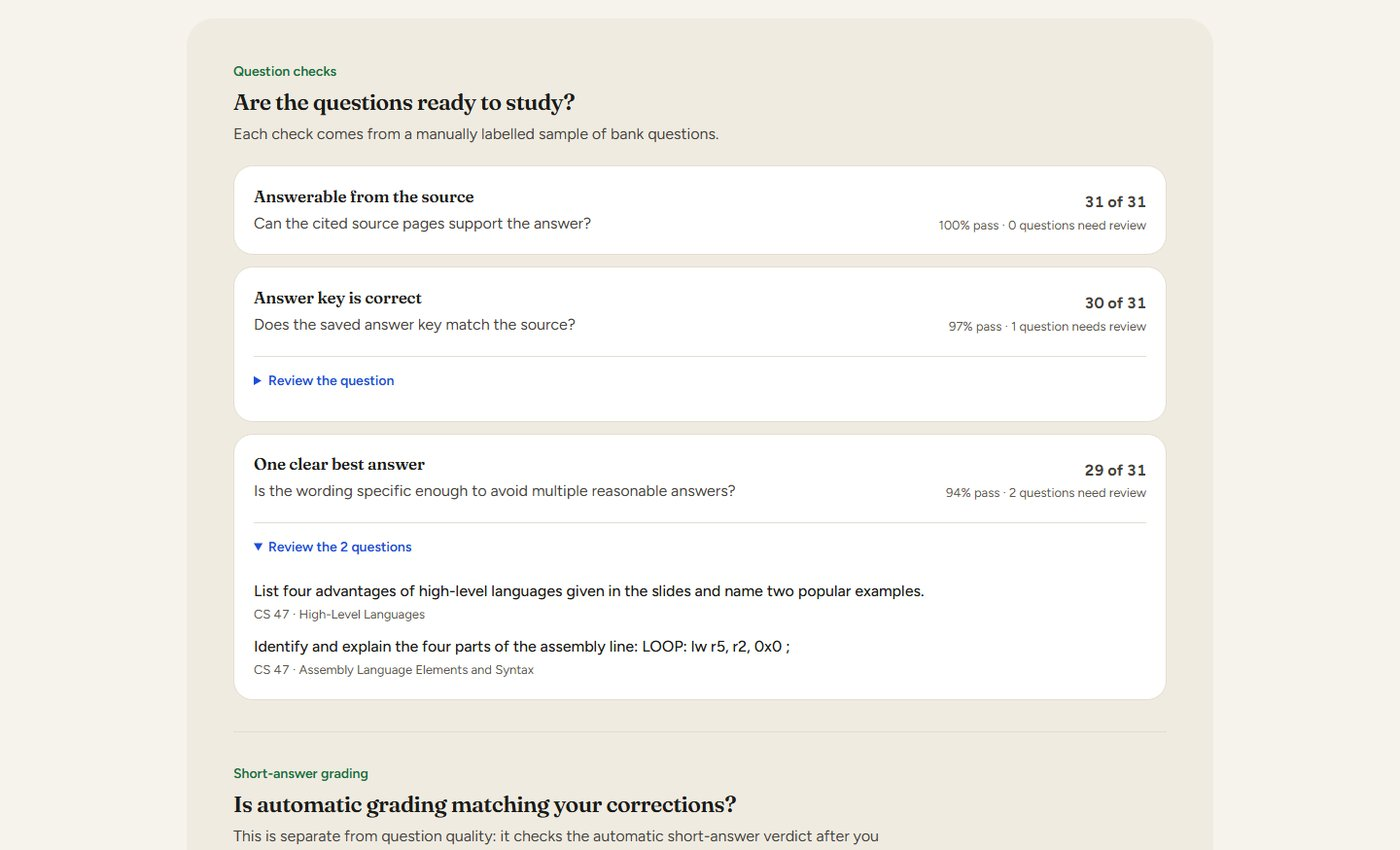
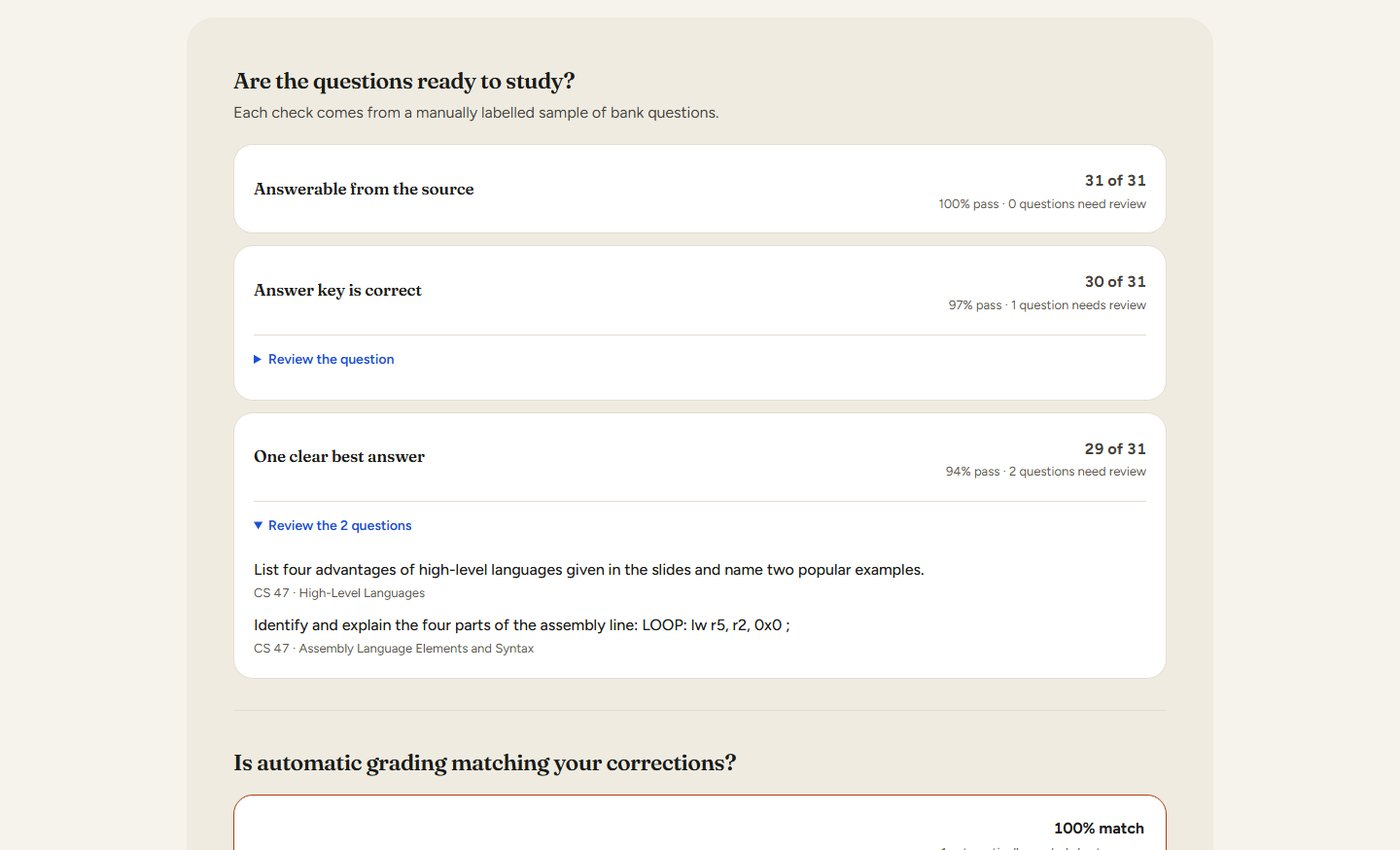
Trim subtext that restated headings or explained the obvious
Dashboard: drop the line under Work on these next and fold the path's key and
its upload-order note into a How this is counted disclosure. Home, Quiz, Bank
and Evaluation lose helper sentences, eyebrows and lines that repeat their
headings. Screenshots retaken.

Changed region(s): [[0.1536, 0.0612, 0.8293, 0.8259], [0.1536, 0.8871, 0.8293, 1.0]]

diff --git a/frontend/src/pages/EvalPage.tsx b/frontend/src/pages/EvalPage.tsx
@@ -20,7 +20,6 @@ export default function EvalPage() {
     <div className="page">
       <header className="page-head">
         <div>
-          <p className="eyebrow">Evaluation</p>
           <h1>Question quality</h1>
           <p className="lede">Use this page to check the question bank and automatic grading. It does not measure your course grade.</p>
         </div>
@@ -31,7 +30,6 @@ export default function EvalPage() {
         <div className="eval-panel">
           <section className="eval-section" aria-labelledby="question-checks-title">
             <div className="eval-section-head">
-              <p className="eyebrow">Question checks</p>
               <h2 id="question-checks-title">Are the questions ready to study?</h2>
               <p>Each check comes from a manually labelled sample of bank questions.</p>
             </div>
@@ -39,13 +37,13 @@ export default function EvalPage() {
               <p className="empty">No question-quality labels yet. Label a few bank questions to start checking them here.</p>
             ) : (
               <ul className="quality-list">
-                <QualityCheck title="Answerable from the source" detail="Can the cited source pages support the answer?"
+                <QualityCheck title="Answerable from the source"
                   rate={report.pctAnswerable} total={report.labeled} pct={pct} passed={passed}
                   failing={report.needsReview.filter(q => !q.answerable)} />
-                <QualityCheck title="Answer key is correct" detail="Does the saved answer key match the source?"
+                <QualityCheck title="Answer key is correct"
                   rate={report.pctCorrectAnswer} total={report.labeled} pct={pct} passed={passed}
                   failing={report.needsReview.filter(q => !q.correctAnswer)} />
-                <QualityCheck title="One clear best answer" detail="Is the wording specific enough to avoid multiple reasonable answers?"
+                <QualityCheck title="One clear best answer"
                   rate={report.pctUnambiguous} total={report.labeled} pct={pct} passed={passed}
                   failing={report.needsReview.filter(q => !q.unambiguous)} />
               </ul>
@@ -53,9 +51,7 @@ export default function EvalPage() {
           </section>
           <section className="eval-section" aria-labelledby="grader-title">
             <div className="eval-section-head">
-              <p className="eyebrow">Short-answer grading</p>
               <h2 id="grader-title">Is automatic grading matching your corrections?</h2>
-              <p>This is separate from question quality: it checks the automatic short-answer verdict after you have a chance to reverse it.</p>
             </div>
             {report.gradedShortAnswers === 0 ? (
               <p className="empty">No automatically graded short answers yet. Complete short-answer prompts to start checking the grader.</p>
@@ -74,7 +70,6 @@ export default function EvalPage() {
 
 interface QualityCheckProps {
   title: string
-  detail: string
   rate: number
   total: number
   pct: (rate: number) => string
@@ -83,14 +78,13 @@ interface QualityCheckProps {
   failing: ReviewItem[]
 }
 
-function QualityCheck({ title, detail, rate, total, pct, passed, failing }: QualityCheckProps) {
+function QualityCheck({ title, rate, total, pct, passed, failing }: QualityCheckProps) {
   const ready = passed(rate, total)
   const needsReview = total - ready
   return (
     <li className="quality-check">
       <div>
         <h3>{title}</h3>
-        <p>{detail}</p>
       </div>
       <p className="quality-score"><b>{ready} of {total}</b><span>{pct(rate)} pass · {plural(needsReview, 'question')} {needsReview === 1 ? 'needs' : 'need'} review</span></p>
       {failing.length > 0 && (

diff --git a/frontend/src/pages/DashboardPage.tsx b/frontend/src/pages/DashboardPage.tsx
@@ -103,7 +103,6 @@ function FocusCard({ toWorkOn, graded }: { toWorkOn: ConceptStats[]; graded: num
           </p>
         ) : (
           <>
-            <p className="focus-sub">Your last answer on each was wrong. Weakest first.</p>
             <ol className="focus-list">
               {toWorkOn.slice(0, FOCUS).map((c, i) => <FocusItem key={c.conceptId} concept={c} n={i + 1} />)}
             </ol>
@@ -143,16 +142,21 @@ function LecturePath({ courseName, concepts }: { courseName: string; concepts: C
       <div className="path-side">
         <div className="path-stick">
           <h2 id="path-title">Your path through {plural(lectures.length, 'lecture')}</h2>
-          <p className="path-intro">{started} of {plural(total, 'topic')} started. Lectures are in the order you uploaded them.</p>
+          <p className="path-intro">{started} of {plural(total, 'topic')} started.</p>
           <span className="path-meter" aria-hidden="true">
             <span className="fill-right" style={{ width: `${(right / total) * 100}%` }} />
             <span className="fill-weak" style={{ width: `${(weak / total) * 100}%` }} />
           </span>
-          <ul className="path-legend">
-            <li className="k-right"><Icon name="circle-check" />Right last time</li>
-            <li className="k-weak"><Icon name="refresh-cw" />To work on: last answer was wrong</li>
-            <li className="k-new"><Icon name="circle-dashed" />Not started</li>
-          </ul>
+          {/* every lecture labels its own counts, so the key and the ordering wait behind a disclosure */}
+          <details className="path-how">
+            <summary>How this is counted</summary>
+            <ul className="path-legend">
+              <li className="k-right"><Icon name="circle-check" />Right last time: the last graded answer was right</li>
+              <li className="k-weak"><Icon name="refresh-cw" />To work on: the last graded answer was wrong</li>
+              <li className="k-new"><Icon name="circle-dashed" />Not started: no graded answer yet</li>
+            </ul>
+            <p>Lectures are in the order you uploaded them.</p>
+          </details>
         </div>
       </div>
       <ol className="path">

diff --git a/frontend/src/pages/QuizPage.tsx b/frontend/src/pages/QuizPage.tsx
@@ -260,7 +260,6 @@ export default function QuizPage() {
                     </div>
                   )}
                   <Why question={onScreen} review={reviews[onScreen.id]} />
-                  <p className="verdict-note">Check yours against the model answer, then mark it.</p>
                   <div className="actions">
                     <button className="btn btn--secondary" onClick={() => mark(onScreen, true)}>I got it right</button>
                     <button className="btn btn--secondary" onClick={() => mark(onScreen, false)}>I got it wrong</button>
@@ -318,10 +317,7 @@ function Setup({ questions, landing, onStart }: {
         </>
       ) : (
         <>
-          <p className="lede">
-            Every question from every topic, shuffled into one quiz. After each answer you see why it is
-            right or wrong, straight from the slides. Nothing here changes your study schedule.
-          </p>
+          <p className="lede">Nothing here changes your study schedule.</p>
           <fieldset className="quiz-fieldset">
             <legend className="field-label">Lectures</legend>
             {/* the exam form's checkbox rows, so picking lectures looks the same wherever it happens */}

diff --git a/frontend/src/styles/dashboard.css b/frontend/src/styles/dashboard.css
@@ -262,10 +262,8 @@
   font-size: 22px;
 }
 
-.focus-sub {
-  margin: 4px 0 12px;
-  font-size: 14px;
-  color: var(--ink-dim);
+.focus-title + .focus-list {
+  margin-top: 12px;
 }
 
 .focus-card > .empty {
@@ -387,10 +385,30 @@
   background: var(--mastery-track);
 }
 
+/* the key to the bars and the path's order, folded away: each lecture labels its own counts */
+.path-how {
+  margin-top: 16px;
+  font-size: 14px;
+}
+
+.path-how summary {
+  display: inline-flex;
+  align-items: center;
+  min-height: 32px;
+  color: var(--link);
+  font-weight: 600;
+  cursor: pointer;
+}
+
+.path-how p {
+  margin-top: 10px;
+  color: var(--ink-dim);
+}
+
 .path-legend {
   display: grid;
   gap: 8px;
-  margin: 18px 0 0;
+  margin: 10px 0 0;
   padding: 0;
   list-style: none;
   font-size: 14px;

diff --git a/frontend/src/pages/DashboardPage.test.tsx b/frontend/src/pages/DashboardPage.test.tsx
@@ -104,7 +104,8 @@ test('many more than five are counted and left to the path', async () => {
 test('every lecture sits on the path: its share correct and how its concepts stand, in words', async () => {
   renderInCourse(<DashboardPage />, 'dashboard')
   expect(await path()).toHaveTextContent('Your path through 2 lectures')
-  expect(screen.getByText('3 of 4 topics started. Lectures are in the order you uploaded them.')).toBeInTheDocument()
+  expect(screen.getByText('3 of 4 topics started.')).toBeInTheDocument()
+  expect(screen.getByText('How this is counted')).toBeInTheDocument()
   expect(lectureNames()).toEqual(['Lecture 3', 'Lecture 4'])
   const three = within(lecture('Lecture 3'))
   expect(three.getByText('2 topics')).toBeInTheDocument()

diff --git a/frontend/src/pages/BankRoute.tsx b/frontend/src/pages/BankRoute.tsx
@@ -162,8 +162,8 @@ export default function BankRoute() {
         <section className="bank-generate" aria-labelledby="bank-generate-title">
           <h2 id="bank-generate-title" className="bank-generate-title">Generate more questions</h2>
           <p className="lede">
-            Pick concepts, how many to add, and the types. New questions stay under the concepts
-            you checked and use only what those decks already taught.
+            New questions stay under the concepts you checked and use only what those decks
+            already taught.
           </p>
           <div className="bank-generate-row">
             <label className="field">

diff --git a/frontend/src/pages/HomePage.tsx b/frontend/src/pages/HomePage.tsx
@@ -88,7 +88,7 @@ export default function HomePage() {
             <>
               <p className="eyebrow">{newest?.term} · {plural(courses.length, 'course')}</p>
               <h1>{due} due today.</h1>
-              <p className="lede">{dueSplit(courses)}. Pick a class to start the queue.</p>
+              <p className="lede">{dueSplit(courses)}.</p>
             </>
           )}
           {courses && courses.length === 0 && (
